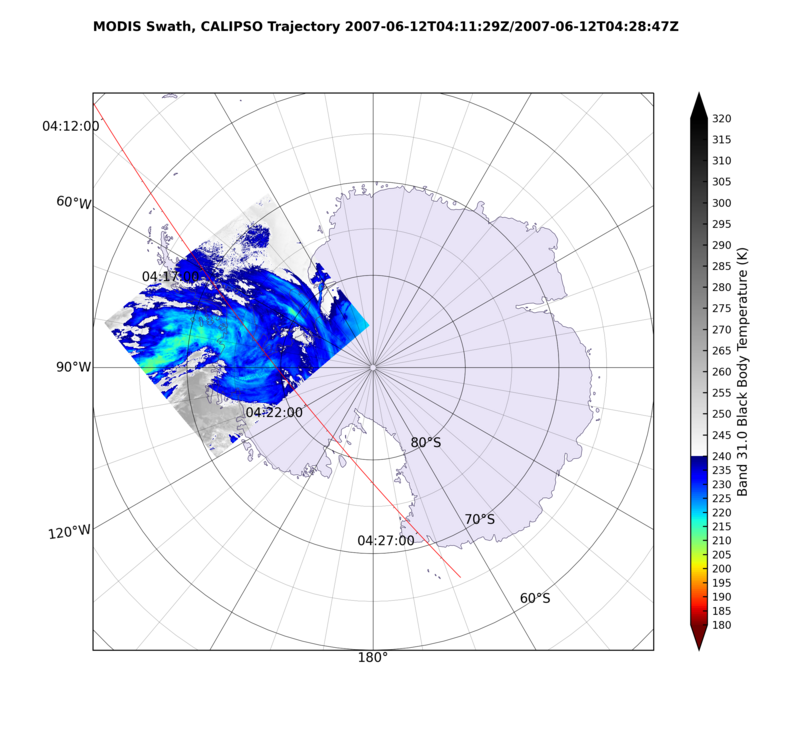
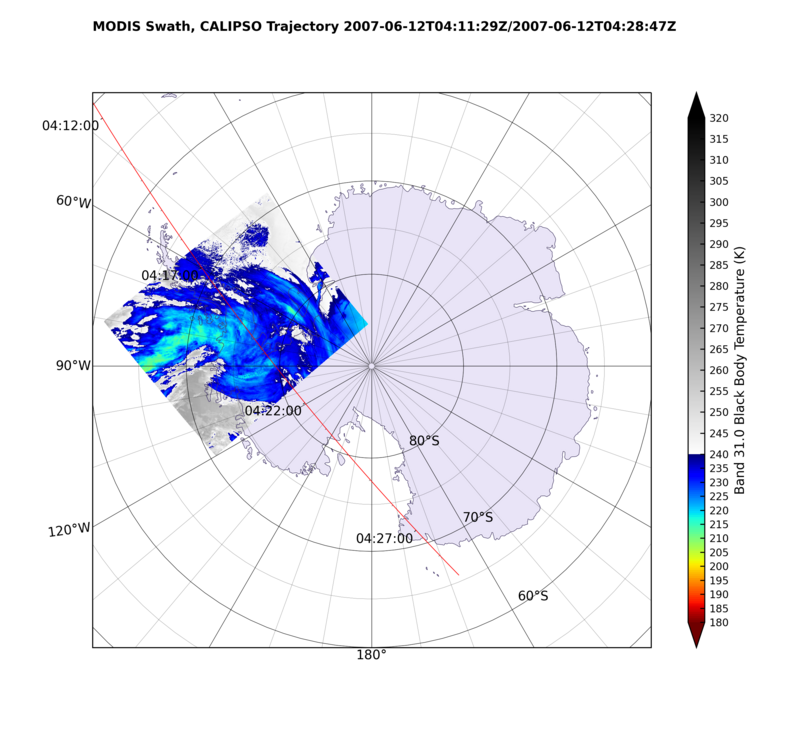
Home: Fix size of orbit images

diff --git a/index.html b/index.html
@@ -48,10 +48,10 @@ css: home.css
     <a href="https://sourceforge.net/projects/ccplot/files/products/CAL_LID_L1-ValStage1-V3-01.2007-06-12T03-42-18ZN.hdf">CAL_LID_L1-ValStage1-V3-01.2007-06-12T03-42-18ZN.hdf</a>
 </div>
 <a href="img/orbit-modis_x31+cloudsat.png">
-    <img src="img/orbit-modis_x31+cloudsat-small.png" />
+    <img src="img/orbit-modis_x31+cloudsat-small.png" height="370" />
 </a>
 <a href="img/orbit-modis_x31+calipso_spstere.png">
-    <img src="img/orbit-modis_x31+calipso_spstere-small.png" />
+    <img src="img/orbit-modis_x31+calipso_spstere-small.png" height="370" />
 </a>
 
 <p class="intro"><a href="features/">And more…</a>
